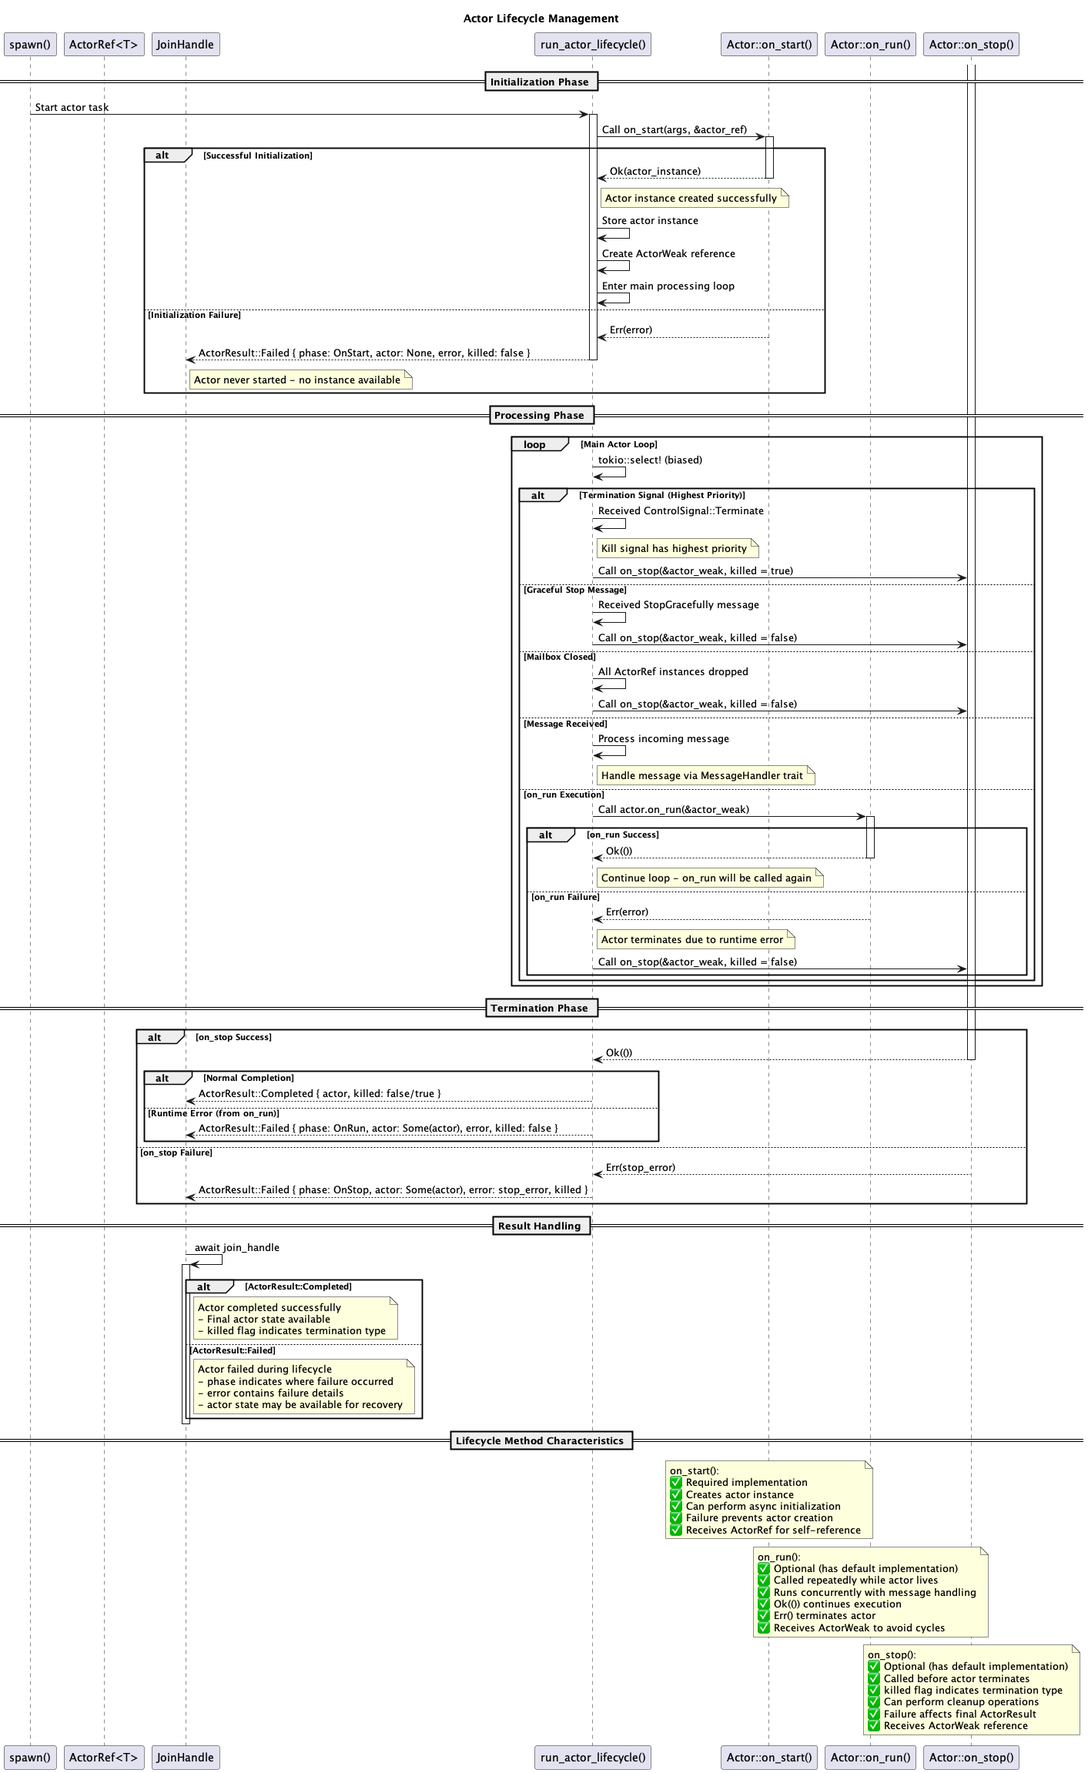
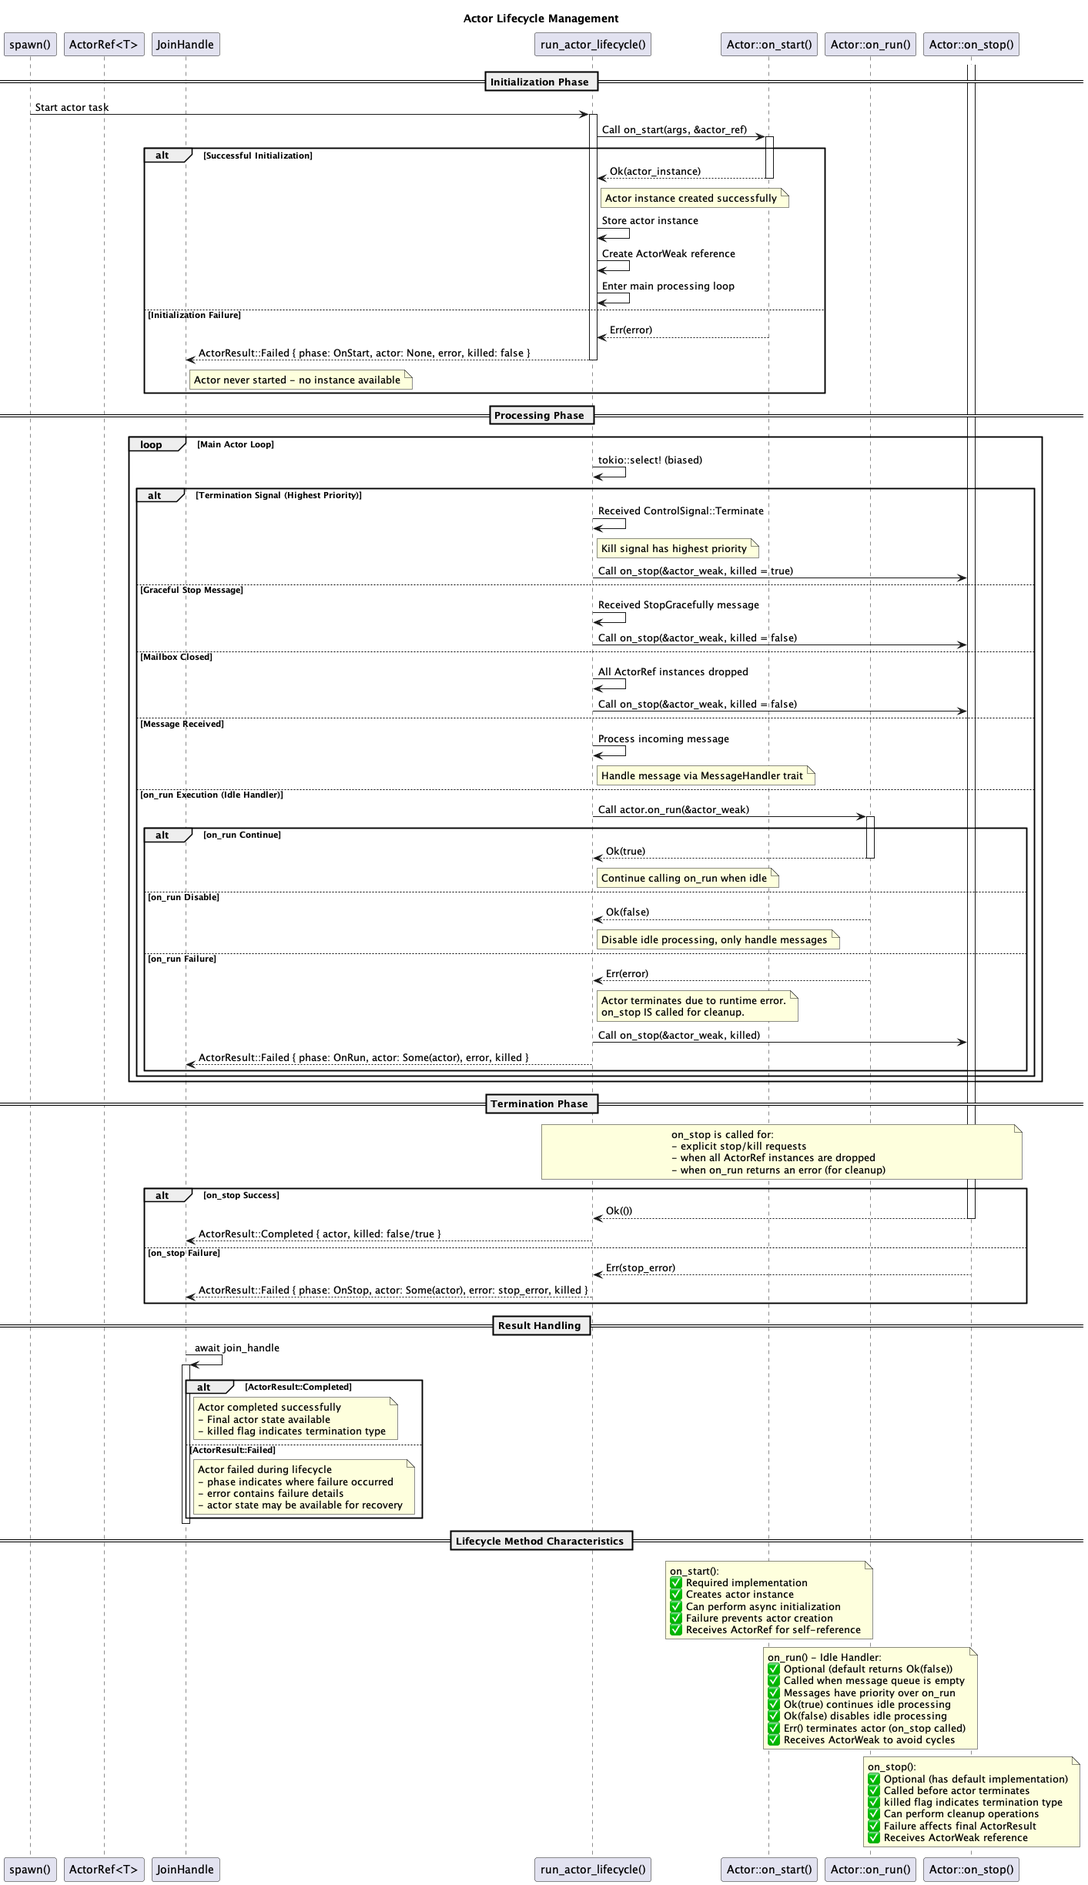
docs: update documentation for v0.13.0 on_run idle handler pattern
Update all documentation to reflect the breaking change where on_run
is now an idle handler called when message queue is empty, returning
Result<bool, Error> to control continuation. Also fixes test timing
issues by using ask instead of tell for synchronous completion.

diff --git a/tests/coverage_improvement_tests.rs b/tests/coverage_improvement_tests.rs
@@ -2222,10 +2222,8 @@ mod metrics_api_tests {
         // Send a few messages
         let _: i32 = actor_ref.ask(QuickMsg).await.unwrap();
         let _: i32 = actor_ref.ask(QuickMsg).await.unwrap();
-        actor_ref.tell(SlowMsg).await.unwrap();
-
-        // Wait for messages to be processed
-        tokio::time::sleep(Duration::from_millis(100)).await;
+        // Use ask instead of tell to ensure message is processed before checking metrics
+        let _: () = actor_ref.ask(SlowMsg).await.unwrap();
 
         // Test metrics snapshot
         let metrics = actor_ref.metrics();
@@ -2287,8 +2285,8 @@ mod metrics_api_tests {
 
         // Send quick and slow messages
         let _: i32 = actor_ref.ask(QuickMsg).await.unwrap();
-        actor_ref.tell(SlowMsg).await.unwrap();
-        tokio::time::sleep(Duration::from_millis(100)).await;
+        // Use ask instead of tell to ensure message is processed before checking metrics
+        let _: () = actor_ref.ask(SlowMsg).await.unwrap();
 
         // Max processing time should reflect the slow message
         let max_time = actor_ref.max_processing_time();

diff --git a/docs/FAQ.md b/docs/FAQ.md
@@ -224,7 +224,7 @@ A8: To stop an actor, you can use:
     ```rust
     actor_ref.stop().await?;
     ```
-    This sends a stop signal to the actor and waits for it to shut down cleanly. The actor will continue processing its current message, finish its current `on_run` execution, and then call `on_stop` before terminating.
+    This sends a stop signal to the actor and waits for it to shut down cleanly. The actor will continue processing its current message, then call `on_stop` before terminating.
 
 2.  **Immediate Kill**:
     ```rust
@@ -345,8 +345,8 @@ A11: The lifecycle of an actor in `rsActor` follows these stages:
     *   If `on_start` returns `Err(e)`, the actor fails to start, and the `JoinHandle` resolves with an error.
 
 2.  **Running**:
-    *   The framework repeatedly calls the actor's `on_run` method, which defines the actor's main execution logic.
-    *   Concurrently, the actor processes messages from its mailbox.
+    *   The actor processes messages from its mailbox.
+    *   The `on_run` idle handler is called when the message queue is empty.
     *   This continues until the actor is stopped or encounters an error.
 
 3.  **Termination**:
@@ -356,11 +356,11 @@ A11: The lifecycle of an actor in `rsActor` follows these stages:
 The actor's lifecycle methods are:
 
 *   `on_start(args: Self::Args, actor_ref: &ActorRef<Self>) -> Result<Self, Self::Error>`: Called when the actor is starting. Creates and returns the actor instance.
-*   `on_run(&mut self, actor_ref: &ActorRef<Self>) -> Result<(), Self::Error>`: Called after `on_start` succeeds. This method contains the main execution logic of the actor and runs concurrently with message handling.
-    *   If `on_run` returns `Ok(())`, the actor continues running and `on_run` will be called again.
+*   `on_run(&mut self, actor_weak: &ActorWeak<Self>) -> Result<bool, Self::Error>`: Called when the message queue is empty (idle handler).
+    *   If `on_run` returns `Ok(true)`, the actor continues calling `on_run` when idle.
+    *   If `on_run` returns `Ok(false)`, idle processing is disabled; the actor only processes messages.
     *   If `on_run` returns `Err(e)`, the actor terminates due to a runtime error, resulting in `ActorResult::Failed` with `phase: FailurePhase::OnRun`.
-    *   To stop the actor normally from within `on_run`, call `actor_ref.stop().await` or `actor_ref.kill()`.
-*   `on_stop(&mut self, actor_ref: &ActorRef<Self>, killed: bool) -> Result<(), Self::Error>`: Called when the actor is stopping. The `killed` parameter is `true` if the actor was killed, and `false` if it was stopped gracefully.
+*   `on_stop(&mut self, actor_weak: &ActorWeak<Self>, killed: bool) -> Result<(), Self::Error>`: Called when the actor is stopping (including after `on_run` errors). The `killed` parameter is `true` if the actor was killed, and `false` if it was stopped gracefully.
 
 **Q12: What is the `ActorResult` enum?**
 
@@ -381,7 +381,7 @@ A12: The `ActorResult` enum represents the outcome of an actor's lifecycle when 
 A13: Error handling in `rsActor` happens at several levels:
 
 *   **Lifecycle - `on_start`:** If `on_start` returns `Err(e)`, the actor never starts, and the `JoinHandle` will resolve to `ActorResult::Failed { actor: None, error: e, phase: FailurePhase::OnStart, killed: false }`. Since the actor wasn't created, the `actor` field is `None`.
-*   **Lifecycle - `on_run`:** If `on_run` returns `Err(e)`, the actor will terminate, and the `JoinHandle` will resolve to `ActorResult::Failed { actor: Some(actor_state), error: e, phase: FailurePhase::OnRun, killed: false }`. The `actor` field may contain the actor's state.
+*   **Lifecycle - `on_run`:** If `on_run` returns `Err(e)`, the actor will terminate after calling `on_stop` for cleanup, and the `JoinHandle` will resolve to `ActorResult::Failed { actor: Some(actor_state), error: e, phase: FailurePhase::OnRun, killed: false }`. The `actor` field contains the actor's state.
 *   **Panics:** If a message handler or `on_run` panics, the Tokio task hosting the actor will terminate. Awaiting the `JoinHandle` will then result in an `Err` (typically a `tokio::task::JoinError` indicating a panic). It's generally recommended to handle errors gracefully within your actor logic and return `Result` types from `on_start` and `on_run`, and use `Result` as reply types for messages where appropriate, rather than relying on panics.
 *   **Message Handling:** For message handling, the `Message<T>::handle` method can return any type as its `Reply`, including a `Result` type. If your message handler might fail, it's a good practice to use a `Result` type as the `Reply` type.
 *   **Sending Messages:** The methods for sending messages (`ask`, `tell`, etc.) return `Result<R, rsactor::Error>`, where `R` is the reply type of the message. These methods can fail if the actor has stopped, the mailbox is full, or a timeout occurs.
@@ -875,11 +875,16 @@ With the generic syntax, you specify the generic constraints in square brackets,
 
 **Q22: How can I effectively use the `on_run` method in my actors?**
 
-A22: The `on_run` method is a key part of the actor lifecycle in the `rsActor` framework that enables an actor to perform its primary processing work. It is called after `on_start` completes and continues running throughout the actor's lifetime. Here's how to use it effectively:
+A22: The `on_run` method is an idle handler in the `rsActor` framework, called when the actor's message queue is empty. It returns `Result<bool, Error>` to control idle processing:
+*   `Ok(true)` - Continue calling `on_run` when idle
+*   `Ok(false)` - Disable idle processing; actor only processes messages
+*   `Err(e)` - Terminate with an error
 
-*   **Actor Behavior Implementation:** The `on_run` method is where you implement the actor's primary behavior and processing logic. Following the actor model principles, this processing happens concurrently with message handling, allowing the actor to maintain its core responsibilities while remaining responsive to messages.
+Here's how to use it effectively:
 
-*   **Periodic Tasks:** You can implement periodic tasks by using `tokio::time` utilities within the `on_run`. `tokio::select!` makes it easy to handle multiple timers concurrently. For example, first define your actor struct with interval fields:
+*   **Idle Processing:** The `on_run` method is called when there are no messages to process. Messages always have priority over idle processing, ensuring the actor stays responsive.
+
+*   **Periodic Tasks:** You can implement periodic tasks by using `tokio::time` utilities within the `on_run`. For example:
 
     ```rust
     struct MyActor {
@@ -897,8 +902,8 @@ A22: The `on_run` method is a key part of the actor lifecycle in the `rsActor` f
         })
     }
 
-    // Use the intervals in on_run without loop
-    async fn on_run(&mut self, _: &ActorWeak<Self>) -> Result<(), Self::Error> {
+    // Idle handler - called when message queue is empty
+    async fn on_run(&mut self, _: &ActorWeak<Self>) -> Result<bool, Self::Error> {
         tokio::select! {
             _ = self.fast_interval.tick() => {
                 // Handle high-frequency tasks (every 500ms)
@@ -909,7 +914,7 @@ A22: The `on_run` method is a key part of the actor lifecycle in the `rsActor` f
                 self.process_low_frequency_work();
             }
         }
-        Ok(())
+        Ok(true) // Continue idle processing
     }
     ```
 
@@ -923,56 +928,54 @@ A22: The `on_run` method is a key part of the actor lifecycle in the `rsActor` f
     impl Actor for EventProcessorActor {
         // ...
 
-        async fn on_run(&mut self, _actor_weak: &ActorWeak<Self>) -> Result<(), Self::Error> {
+        async fn on_run(&mut self, _actor_weak: &ActorWeak<Self>) -> Result<bool, Self::Error> {
             tokio::select! {
                 Some(event) = self.events_rx.recv() => {
                     self.process_event(event)?;
+                    Ok(true) // Continue processing
                 }
                 else => {
-                    // Channel closed, stop the actor
-                    return Err(anyhow::anyhow!("Event channel closed"));
+                    // Channel closed, stop idle processing
+                    Ok(false)
                 }
             }
-            Ok(())
         }
     }
     ```
 
-*   **Background Processing:** Use `on_run` for continuous background processing tasks:
+*   **Background Processing:** Use `on_run` for background processing tasks:
 
     ```rust
-    async fn on_run(&mut self, _actor_weak: &ActorWeak<Self>) -> Result<(), Self::Error> {
+    async fn on_run(&mut self, _actor_weak: &ActorWeak<Self>) -> Result<bool, Self::Error> {
         // Process one batch of work items
         if let Some(work_item) = self.queue.pop() {
             self.process_work_item(work_item)?;
+            Ok(true) // Continue processing
         } else {
-            // No work to do right now, add a small delay to avoid busy waiting
-            tokio::time::sleep(Duration::from_millis(10)).await;
+            // No work to do, disable idle processing until new work arrives via messages
+            Ok(false)
         }
-        Ok(())
     }
     ```
 
 *   **Combine multiple sources with `tokio::select!`:** You can wait on multiple event sources concurrently:
 
     ```rust
-    async fn on_run(&mut self, actor_weak: &ActorWeak<Self>) -> Result<(), Self::Error> {
+    async fn on_run(&mut self, actor_weak: &ActorWeak<Self>) -> Result<bool, Self::Error> {
         tokio::select! {
             Some(msg) = self.command_rx.recv() => {
                 self.handle_command(msg)?;
+                Ok(true) // Continue
             }
             _ = self.health_check_interval.tick() => {
                 self.perform_health_check()?;
-            }
-            Ok(()) = self.check_resource_limits() => {
-                // Resources are within limits, continue
+                Ok(true) // Continue
             }
             else => {
-                // All channels are closed
-                actor_ref.stop().await?;
+                // All channels are closed, disable idle processing
+                Ok(false)
             }
         }
-        Ok(())
     }
     ```
 

diff --git a/docs/actor_model.md b/docs/actor_model.md
@@ -89,7 +89,7 @@ While the actor model is well-known for its applicability in distributed systems
 
 Libraries like `rsactor` (see `https://github.com/hiking90/rsactor`) provide simple and efficient in-process actor model implementations for Rust. They simplify the definition of actors, their state, message types, and message handling logic, allowing developers to focus on the application's business logic rather than the boilerplate of actor machinery. For example, you might define an actor that manages a specific resource or performs a particular computation, and other parts of your application would interact with it solely by sending it messages and, where appropriate, receiving responses via messages.
 
-Here's a conceptual example using `rsactor`, demonstrating an actor with an internal `on_run` handling multiple tick sources:
+Here's a conceptual example using `rsactor`, demonstrating an actor with an `on_run` idle handler processing multiple tick sources:
 
 ```rust
 use rsactor::{Actor, ActorRef, ActorWeak, message_handlers, spawn};
@@ -117,9 +117,9 @@ impl Actor for CounterActor {
         })
     }
 
-    // The primary processing loop for the actor within the lifecycle.
+    // Idle handler called when the message queue is empty.
     // This demonstrates handling two independent, periodic events using tokio::select!.
-    async fn on_run(&mut self, _actor_weak: &ActorWeak<Self>) -> Result<(), Self::Error> {
+    async fn on_run(&mut self, _actor_weak: &ActorWeak<Self>) -> Result<bool, Self::Error> {
         // Use the tokio::select! macro to handle the first completed asynchronous operation among several.
         tokio::select! {
             // Executes when the 300ms interval timer ticks.
@@ -131,8 +131,8 @@ impl Actor for CounterActor {
                 // Could implement different behavior here
             }
         }
-        // Return Ok(()) to continue running
-        Ok(())
+        // Return Ok(true) to continue idle processing, Ok(false) to disable it
+        Ok(true)
     }
 }
 
@@ -222,22 +222,22 @@ In this example:
 - `CounterActor` maintains a `count` and two interval timers as struct fields.
 - The `Actor` trait is implemented:
     - `on_start` initializes the actor with its state and interval timers.
-    - `on_run` is the core execution method. It uses `tokio::select!` to concurrently wait on two `tokio::time::interval` ticks (300ms and 1 second).
+    - `on_run` is the idle handler, called when the message queue is empty. It uses `tokio::select!` to wait on two `tokio::time::interval` ticks (300ms and 1 second).
         - The 300ms tick increments the actor's internal `count`.
         - The 1s tick performs no specific action in this example.
-        - The framework will call `on_run` repeatedly, handling each interval tick as it occurs.
+        - Return `Ok(true)` to continue idle processing, `Ok(false)` to disable it.
 - Message types `IncrementMsg(u32)` and `GetCountMsg` are defined to interact with the counter.
 - The `#[message_handlers]` macro with `#[handler]` attributes automatically generates `Message` trait implementations and `MessageHandler` trait implementation for these messages.
 - The `main` function:
     - Spawns the `CounterActor`.
-    - Waits briefly to allow the `on_run` to execute a few times.
+    - Waits briefly to allow the `on_run` idle handler to execute a few times.
     - Sends `IncrementMsg` and `GetCountMsg` to interact with the actor, logging replies.
     - Waits again for more ticks.
     - Sends `GetCountMsg` again to observe changes from both messages and internal ticks.
     - Gracefully stops the actor using `actor_ref.stop()`.
     - Awaits the actor's `join_handle` to ensure clean termination and logs the outcome.
 
-This revised example aligns with the `rsactor` patterns shown in its `README.md` and `lib.rs` documentation, particularly showcasing how the `on_run` method implements the actor's primary processing loop while concurrently handling incoming messages, a key feature of the in-process actor model.
+This revised example aligns with the `rsactor` patterns shown in its `README.md` and `lib.rs` documentation, particularly showcasing how the `on_run` method serves as an idle handler that processes background tasks when the message queue is empty, a key feature of the in-process actor model.
 
 ## The Premier Choice for Mutex-Light Concurrency in Rust
 

diff --git a/docs/Architecture.md b/docs/Architecture.md
@@ -31,12 +31,12 @@ This section describes the sequence of events when a user defines an actor and s
 4.  Inside the spawned Tokio task, `run_actor_lifecycle` begins execution:
     a.  It first calls the actor's `A::on_start(args, &actor_ref)` lifecycle hook, passing the user-provided `args` and a reference to the `ActorRef`. This method is responsible for creating and returning the actor instance (`Ok(Self)`).
     b.  If `on_start()` returns `Ok(actor_instance)`, this instance is stored. The runtime then enters the main processing loop using `tokio::select!` to handle:
-        - Messages from the mailbox
+        - Messages from the mailbox (highest priority after termination)
         - Termination signals (with bias priority)
-        - The actor's `on_run()` method execution
-    c.  The actor's `on_run()` method runs concurrently with message processing, implementing the actor's primary logic throughout its lifetime.
+        - The actor's `on_run()` idle handler (lowest priority, only when message queue is empty)
+    c.  The actor's `on_run()` method serves as an idle handler, called when the message queue is empty. It returns `Ok(true)` to continue idle processing, `Ok(false)` to disable it, or `Err(e)` to terminate with an error.
     d.  If `on_start()` fails (returns `Err(e)`), the actor fails to start. The `run_actor_lifecycle` function will return `ActorResult::Failed { actor: None, error: e, phase: FailurePhase::OnStart, killed: false }`.
-    e.  When the actor terminates (due to `on_run()` errors, explicit stop/kill, or all references being dropped), the actor's `on_stop()` method is called before the `JoinHandle` resolves to an appropriate `ActorResult`.
+    e.  When the actor terminates (due to `on_run()` errors, explicit stop/kill, or all references being dropped), the actor's `on_stop()` method is called for cleanup before the `JoinHandle` resolves to an appropriate `ActorResult`.
 
 ## 2. Message Passing (tell/ask)
 
@@ -159,7 +159,7 @@ This section provides a comprehensive view of the actor lifecycle from creation 
 The actor lifecycle consists of three main phases:
 
 1. **Initialization Phase**: The actor is created via `on_start()`. If this fails, no actor instance exists.
-2. **Processing Phase**: The actor processes messages and executes `on_run()` repeatedly until termination.
+2. **Processing Phase**: The actor processes messages and executes `on_run()` as an idle handler when the message queue is empty.
 3. **Termination Phase**: The actor is cleaned up via `on_stop()` before the task completes.
 
 Each phase can result in different `ActorResult` outcomes, providing detailed information about the actor's final state.

diff --git a/docs/getting_started.md b/docs/getting_started.md
@@ -94,12 +94,12 @@ impl Actor for CounterActor {
         })
     }
 
-    // on_run is optional - defines the actor's main processing loop
-    async fn on_run(&mut self, actor_weak: &ActorWeak<Self>) -> Result<(), Self::Error> {
-        // This runs concurrently with message handling
+    // on_run is optional - idle handler called when message queue is empty
+    async fn on_run(&mut self, _actor_weak: &ActorWeak<Self>) -> Result<bool, Self::Error> {
+        // Called when there are no messages to process
         tokio::time::sleep(std::time::Duration::from_secs(1)).await;
         println!("Actor '{}' heartbeat - current count: {}", self.name, self.count);
-        Ok(()) // Returning Ok(()) means on_run will be called again
+        Ok(true) // Return true to continue idle processing, false to disable it
     }
 
     // on_stop is optional - called when the actor is terminating
@@ -169,7 +169,7 @@ async fn main() -> Result<()> {
 ### Actor Lifecycle
 
 1. **`on_start`** (required): Creates the actor instance from initialization arguments
-2. **`on_run`** (optional): The actor's main processing loop, runs concurrently with message handling
+2. **`on_run`** (optional): Idle handler called when message queue is empty, returns `bool` to control continuation
 3. **`on_stop`** (optional): Cleanup logic when the actor terminates
 
 ### Message Passing

diff --git a/docs/best_practices.md b/docs/best_practices.md
@@ -100,12 +100,12 @@ impl Actor for FileProcessor {
 }
 ```
 
-### 3. Use `on_run` for Periodic Tasks
+### 3. Use `on_run` for Idle Processing
 
-Implement periodic or continuous processing in `on_run`:
+The `on_run` method is an idle handler called when the message queue is empty. Use it for background tasks:
 
 ```rust
-async fn on_run(&mut self, actor_weak: &ActorWeak<Self>) -> Result<(), Self::Error> {
+async fn on_run(&mut self, actor_weak: &ActorWeak<Self>) -> Result<bool, Self::Error> {
     tokio::select! {
         // Handle periodic cleanup
         _ = self.cleanup_interval.tick() => {
@@ -119,11 +119,11 @@ async fn on_run(&mut self, actor_weak: &ActorWeak<Self>) -> Result<(), Self::Err
                 let actor_ref = actor_weak.upgrade()
                     .ok_or_else(|| anyhow::anyhow!("Actor reference no longer valid"))?;
                 actor_ref.stop().await?;
-                return Ok(());
+                return Ok(false); // Stop idle processing
             }
         }
     }
-    Ok(())
+    Ok(true) // Continue idle processing
 }
 ```
 

diff --git a/README.md b/README.md
@@ -29,7 +29,7 @@ A Simple and Efficient In-Process Actor Model Implementation for Rust.
 ### Actor Lifecycle
 Three well-defined hooks for managing actor behavior:
 - `on_start`: Initializes the actor's state (required)
-- `on_run`: Main execution logic, runs concurrently with message handling (optional)
+- `on_run`: Idle handler called when message queue is empty, returns `bool` to control continuation (optional)
 - `on_stop`: Cleanup before termination, with `killed` flag for graceful vs immediate (optional)
 
 Supports **graceful termination** (`stop()`) and **immediate termination** (`kill()`), with `ActorResult` enum representing lifecycle outcomes.
